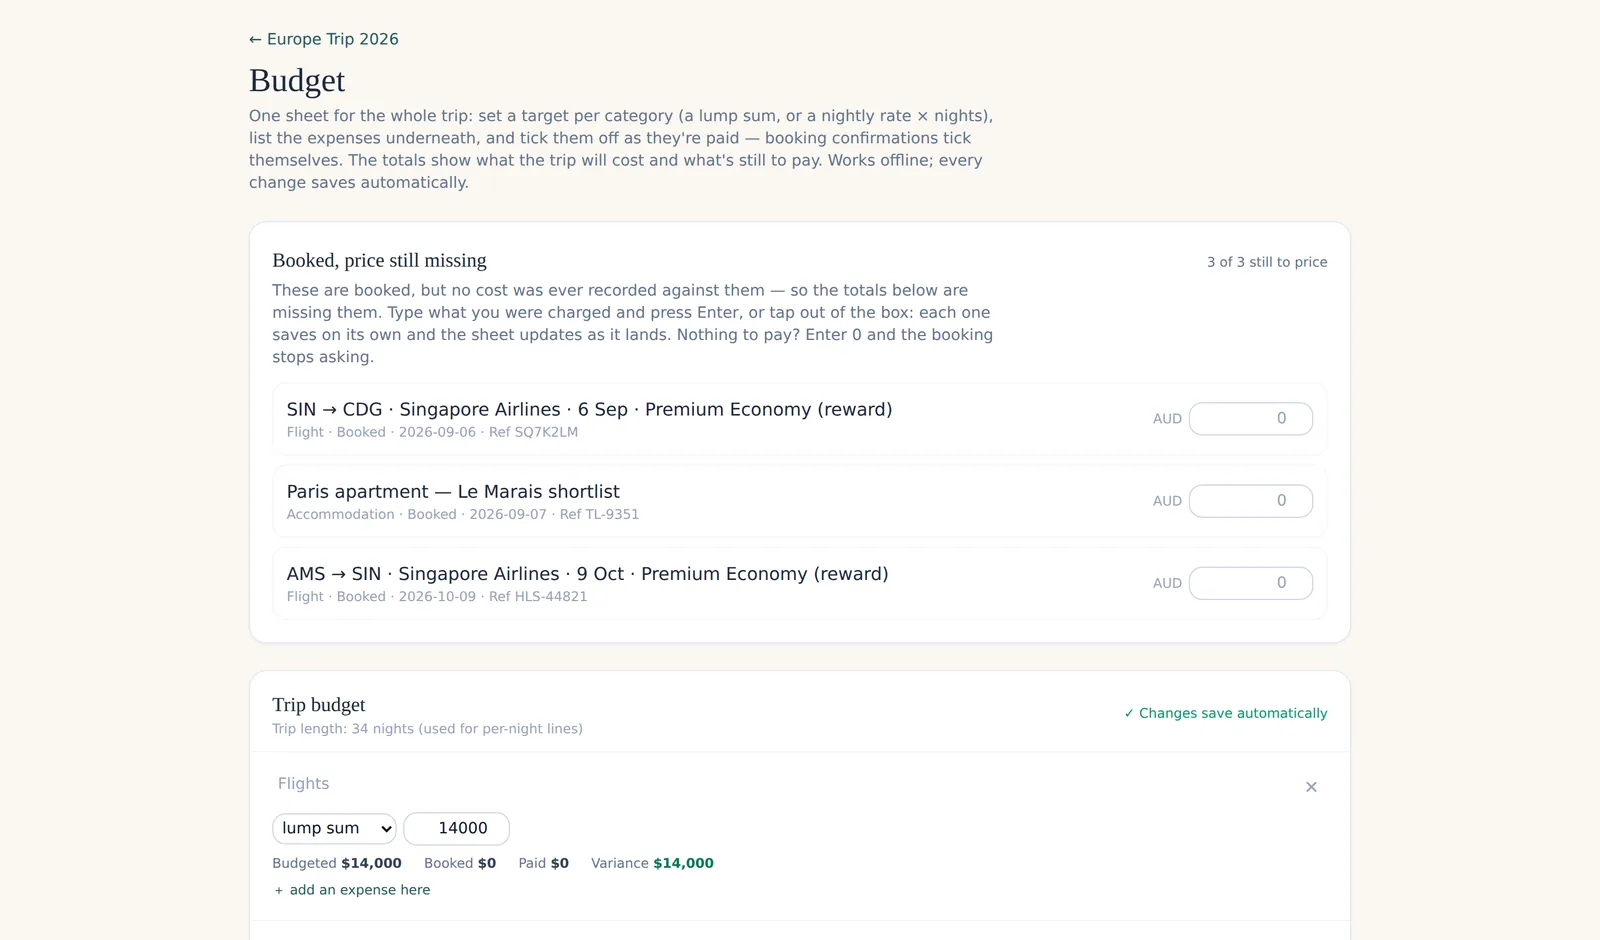
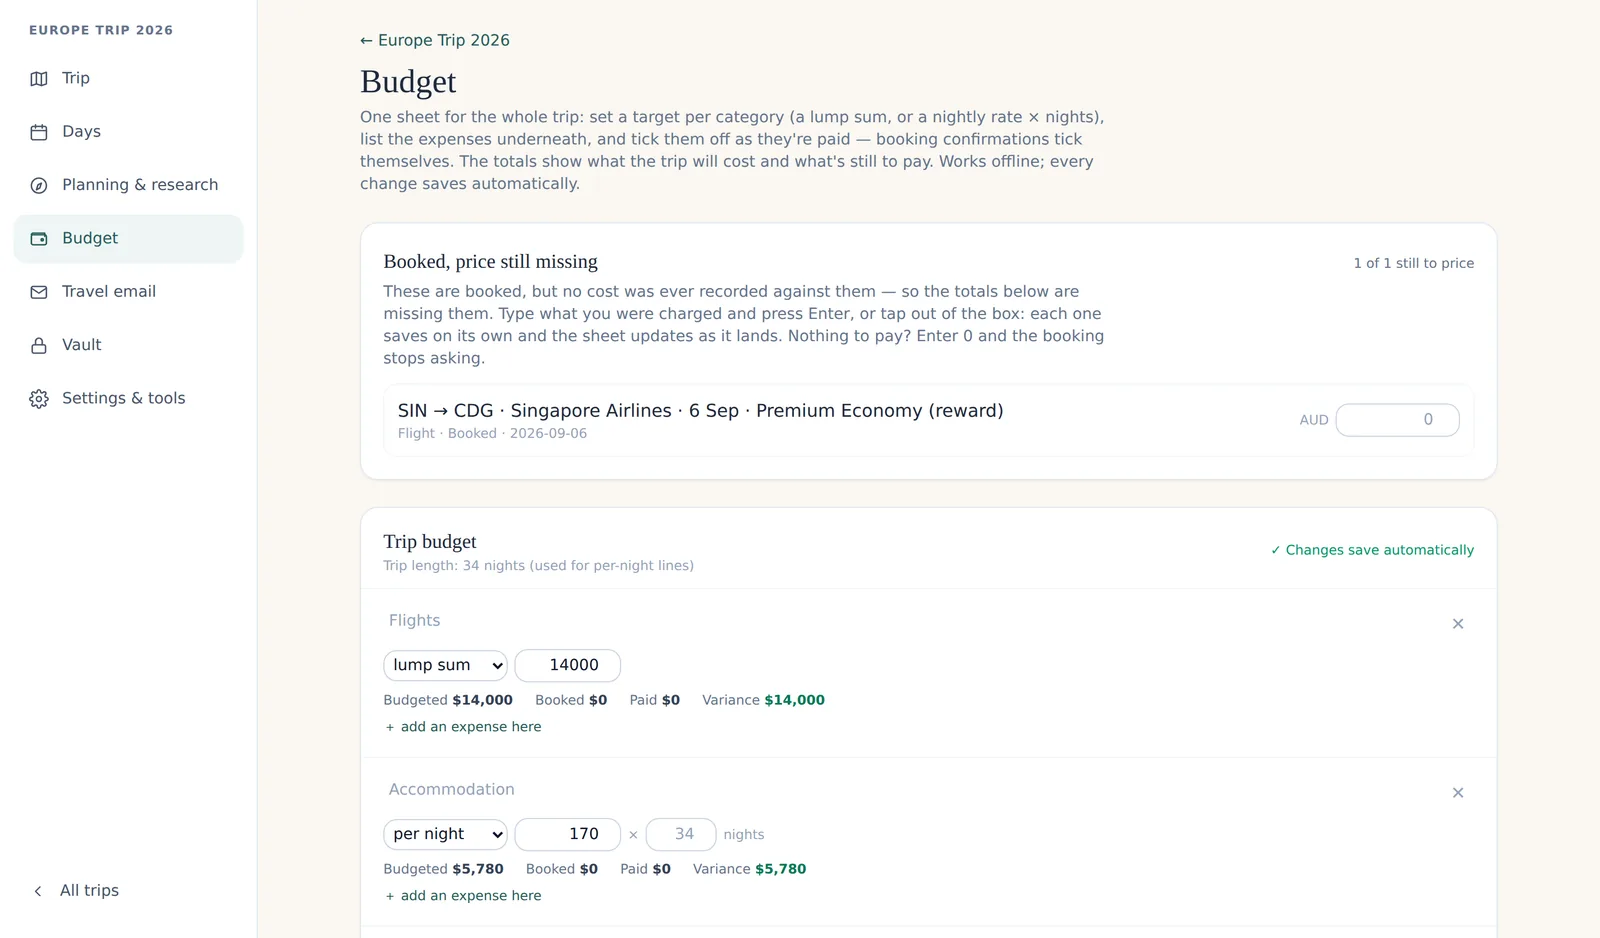
MaiCation screenshots: the app as it looks now
The trip page, the day page and the budget, reshot from the app with the
boarding-pass design: the rail of sections, the new header, and the
stroke icons on the cards. Same crops as before, the top bar left out.

Claude-Session: https://claude.ai/code/session_01HSdc4CUaVvrP6Ee25qvuo8

diff --git a/maication/index.html b/maication/index.html
@@ -150,7 +150,7 @@
     <small>14 days with everything on, no card needed.</small>
   </div>
   <figure class="shot">
-    <img src="/maication/assets/trip.webp" width="1600" height="1012" alt="The trip page for Europe Trip 2026 on a laptop: a header with the cost so far and a timeline button, then the journey leg by leg with the booked flight and stay on each card." fetchpriority="high">
+    <img src="/maication/assets/trip.webp" width="1600" height="1010" alt="The trip page for Europe Trip 2026 on a laptop: a rail of sections down the left, a header with the cost so far and a timeline button, then the journey leg by leg with the booked option on each card." fetchpriority="high">
     <figcaption class="cap">The trip page on a laptop. Every new account starts with this sample trip so there's something to poke at.</figcaption>
   </figure>
 </header>
@@ -201,7 +201,7 @@
     <h2>On the phone, once you're away</h2>
     <div class="pair">
       <div class="phone">
-        <img src="/maication/assets/memo-phone.webp" width="780" height="2132" alt="The day page for Monday 7 September on a phone: the time zone in use, the Paris apartment check-in with its reference, and the daily memo with what needs doing." loading="lazy">
+        <img src="/maication/assets/memo-phone.webp" width="780" height="2128" alt="The day page for Monday 7 September on a phone: the time zone in use, the Paris apartment check-in with its reference, and the daily memo with what needs doing." loading="lazy">
       </div>
       <div>
         <h3>The day page</h3>
@@ -211,7 +211,7 @@
       </div>
     </div>
     <figure class="shot">
-      <img src="/maication/assets/budget.webp" width="1600" height="940" alt="The budget page: a target per category as a lump sum or a nightly rate, with budgeted, booked, paid and variance under each." loading="lazy">
+      <img src="/maication/assets/budget.webp" width="1600" height="938" alt="The budget page: a target per category as a lump sum or a nightly rate, with budgeted, booked, paid and variance under each." loading="lazy">
       <figcaption class="cap">The budget. One sheet for the trip, a target per category, and booking confirmations tick themselves off as paid.</figcaption>
     </figure>
   </div>

diff --git a/index.html b/index.html
@@ -852,7 +852,7 @@
       </div>
     </div>
     <div class="entry-vis">
-      <img class="entry-shot" src="/maication/assets/memo-phone-short.webp" width="780" height="1452" alt="MaiCation's day page on a phone: Monday 7 September in Paris, the apartment check-in with its reference, and the daily memo.">
+      <img class="entry-shot" src="/maication/assets/memo-phone-short.webp" width="780" height="1448" alt="MaiCation's day page on a phone: Monday 7 September in Paris, the apartment check-in with its reference, and the daily memo.">
       <p class="vignette-note">The day page, on a phone</p>
     </div>
   </article>
